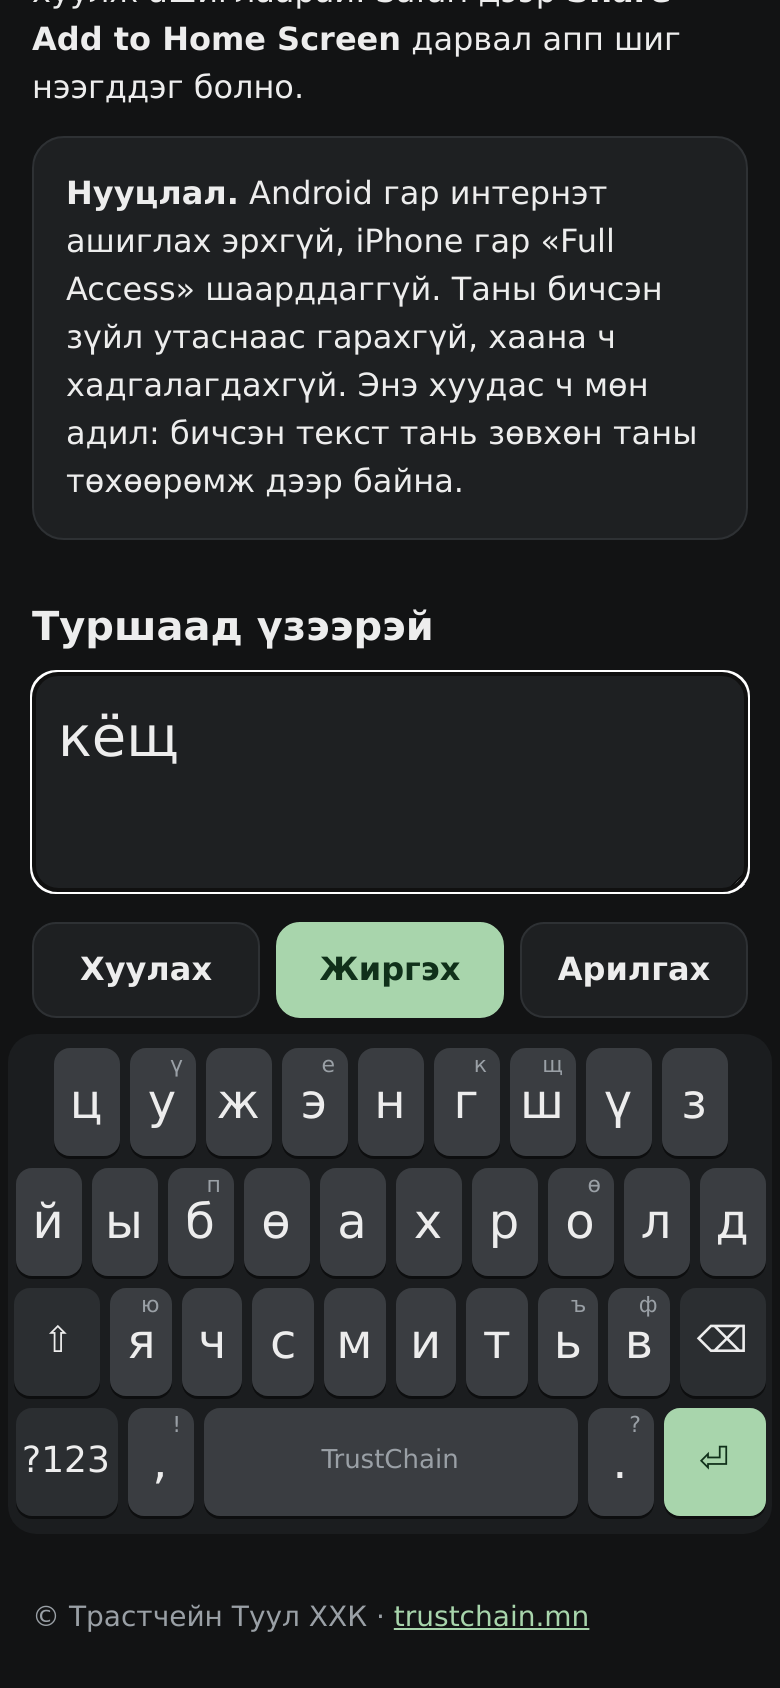
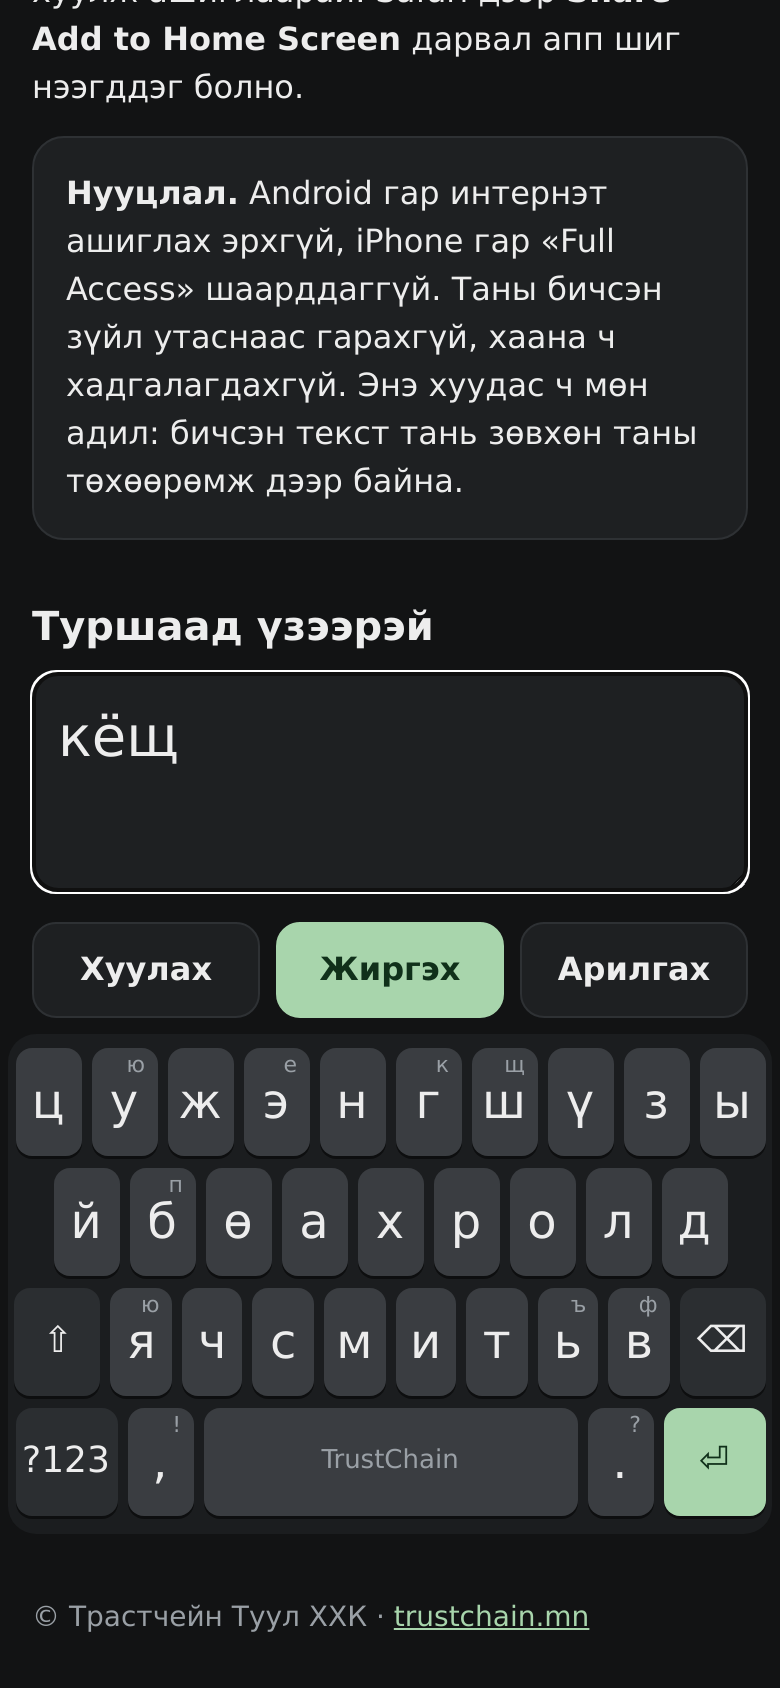
Layout: ы to the end of the top row (middle row 9 keys, aligns with standard positions); remove duplicate long-press у→ү, о→ө; Android 1.0.5
Claude-Session: https://claude.ai/code/session_01GwrqJs8sqTnCJ6VLUoUTLg

Changed region(s): [[0.0, 0.6161, 0.9846, 0.7701]]

diff --git a/ios/UITests/KeyboardUITests.swift b/ios/UITests/KeyboardUITests.swift
@@ -128,11 +128,11 @@ final class KeyboardUITests: XCTestCase {
             let y = 8 + 54 * (CGFloat(row) + 0.5)
             return ourKeyboard.coordinate(withNormalizedOffset: .zero).withOffset(CGVector(dx: x, dy: y))
         }
-        // Row 2 (index 1): й ы б ө а х р о л д
-        key(row: 1, index: 4).tap()   // а → "А" (auto-capital at the start)
-        key(row: 1, index: 8).tap()   // л
-        key(row: 1, index: 9).tap()   // д
-        key(row: 1, index: 2).press(forDuration: 0.8) // hold б → popup, first option п, release types it
+        // Row 2 (index 1): й б ө а х р о л д (9 keys, centred)
+        key(row: 1, index: 3, keysInRow: 9).tap()   // а → "А" (auto-capital at the start)
+        key(row: 1, index: 7, keysInRow: 9).tap()   // л
+        key(row: 1, index: 8, keysInRow: 9).tap()   // д
+        key(row: 1, index: 1, keysInRow: 9).press(forDuration: 0.8) // hold б → popup, first option п, release types it
         sleep(1)
         shot("4-typed", app)
         XCTAssertEqual(field.value as? String, "Алдп")
